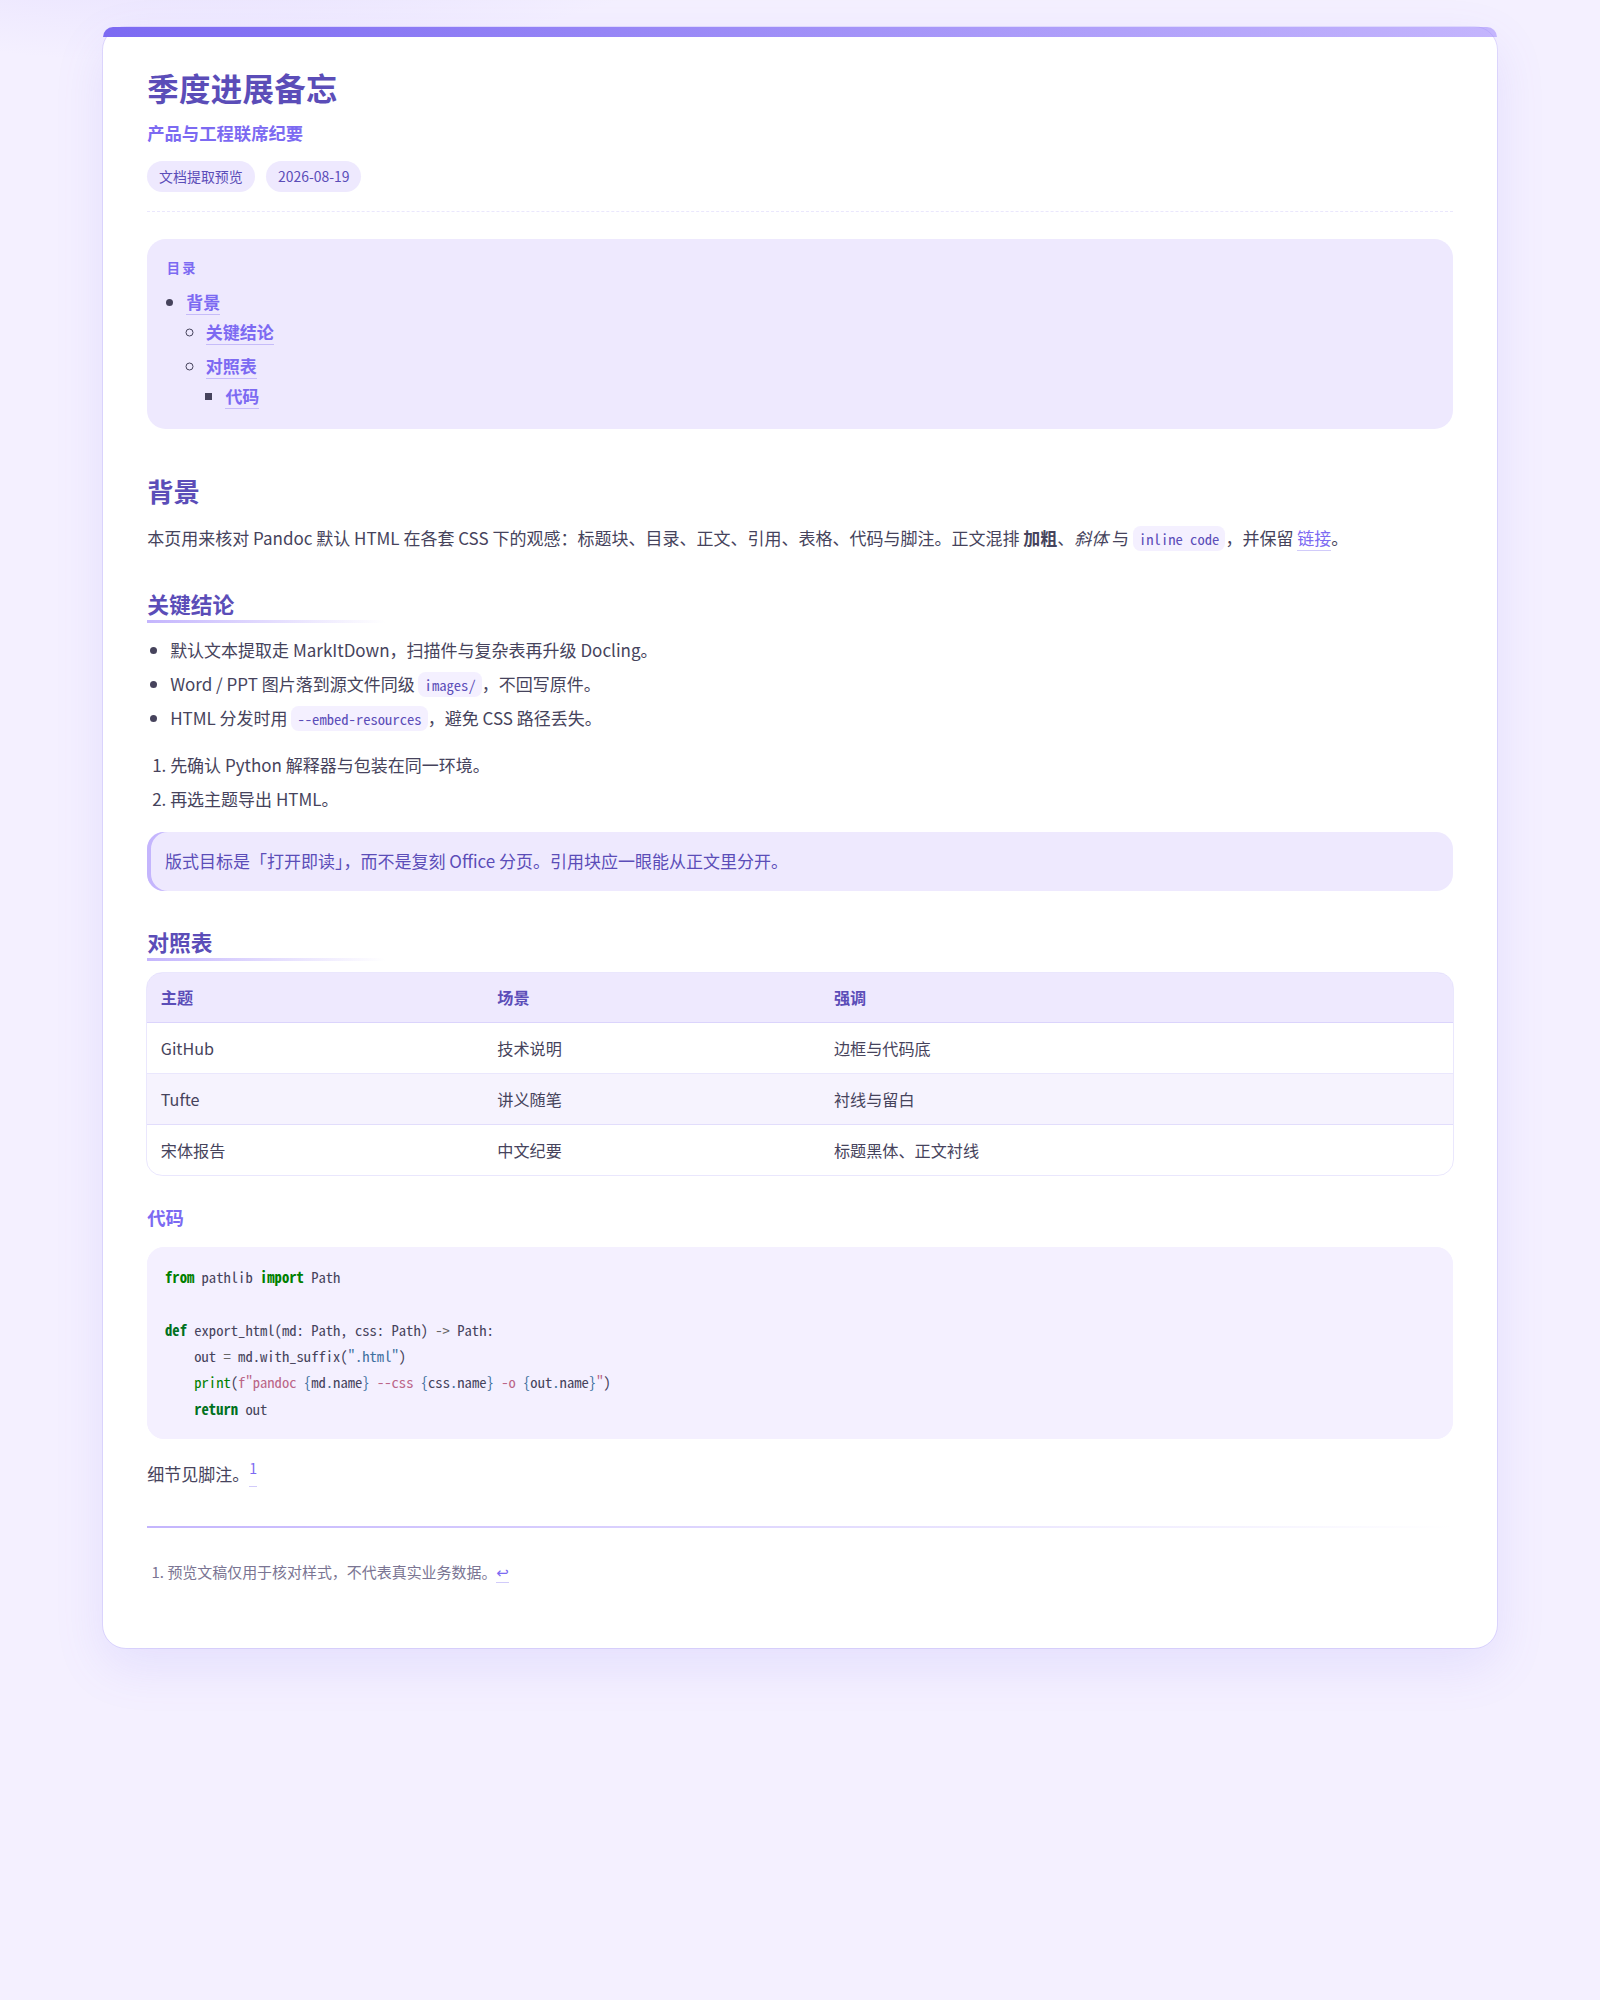
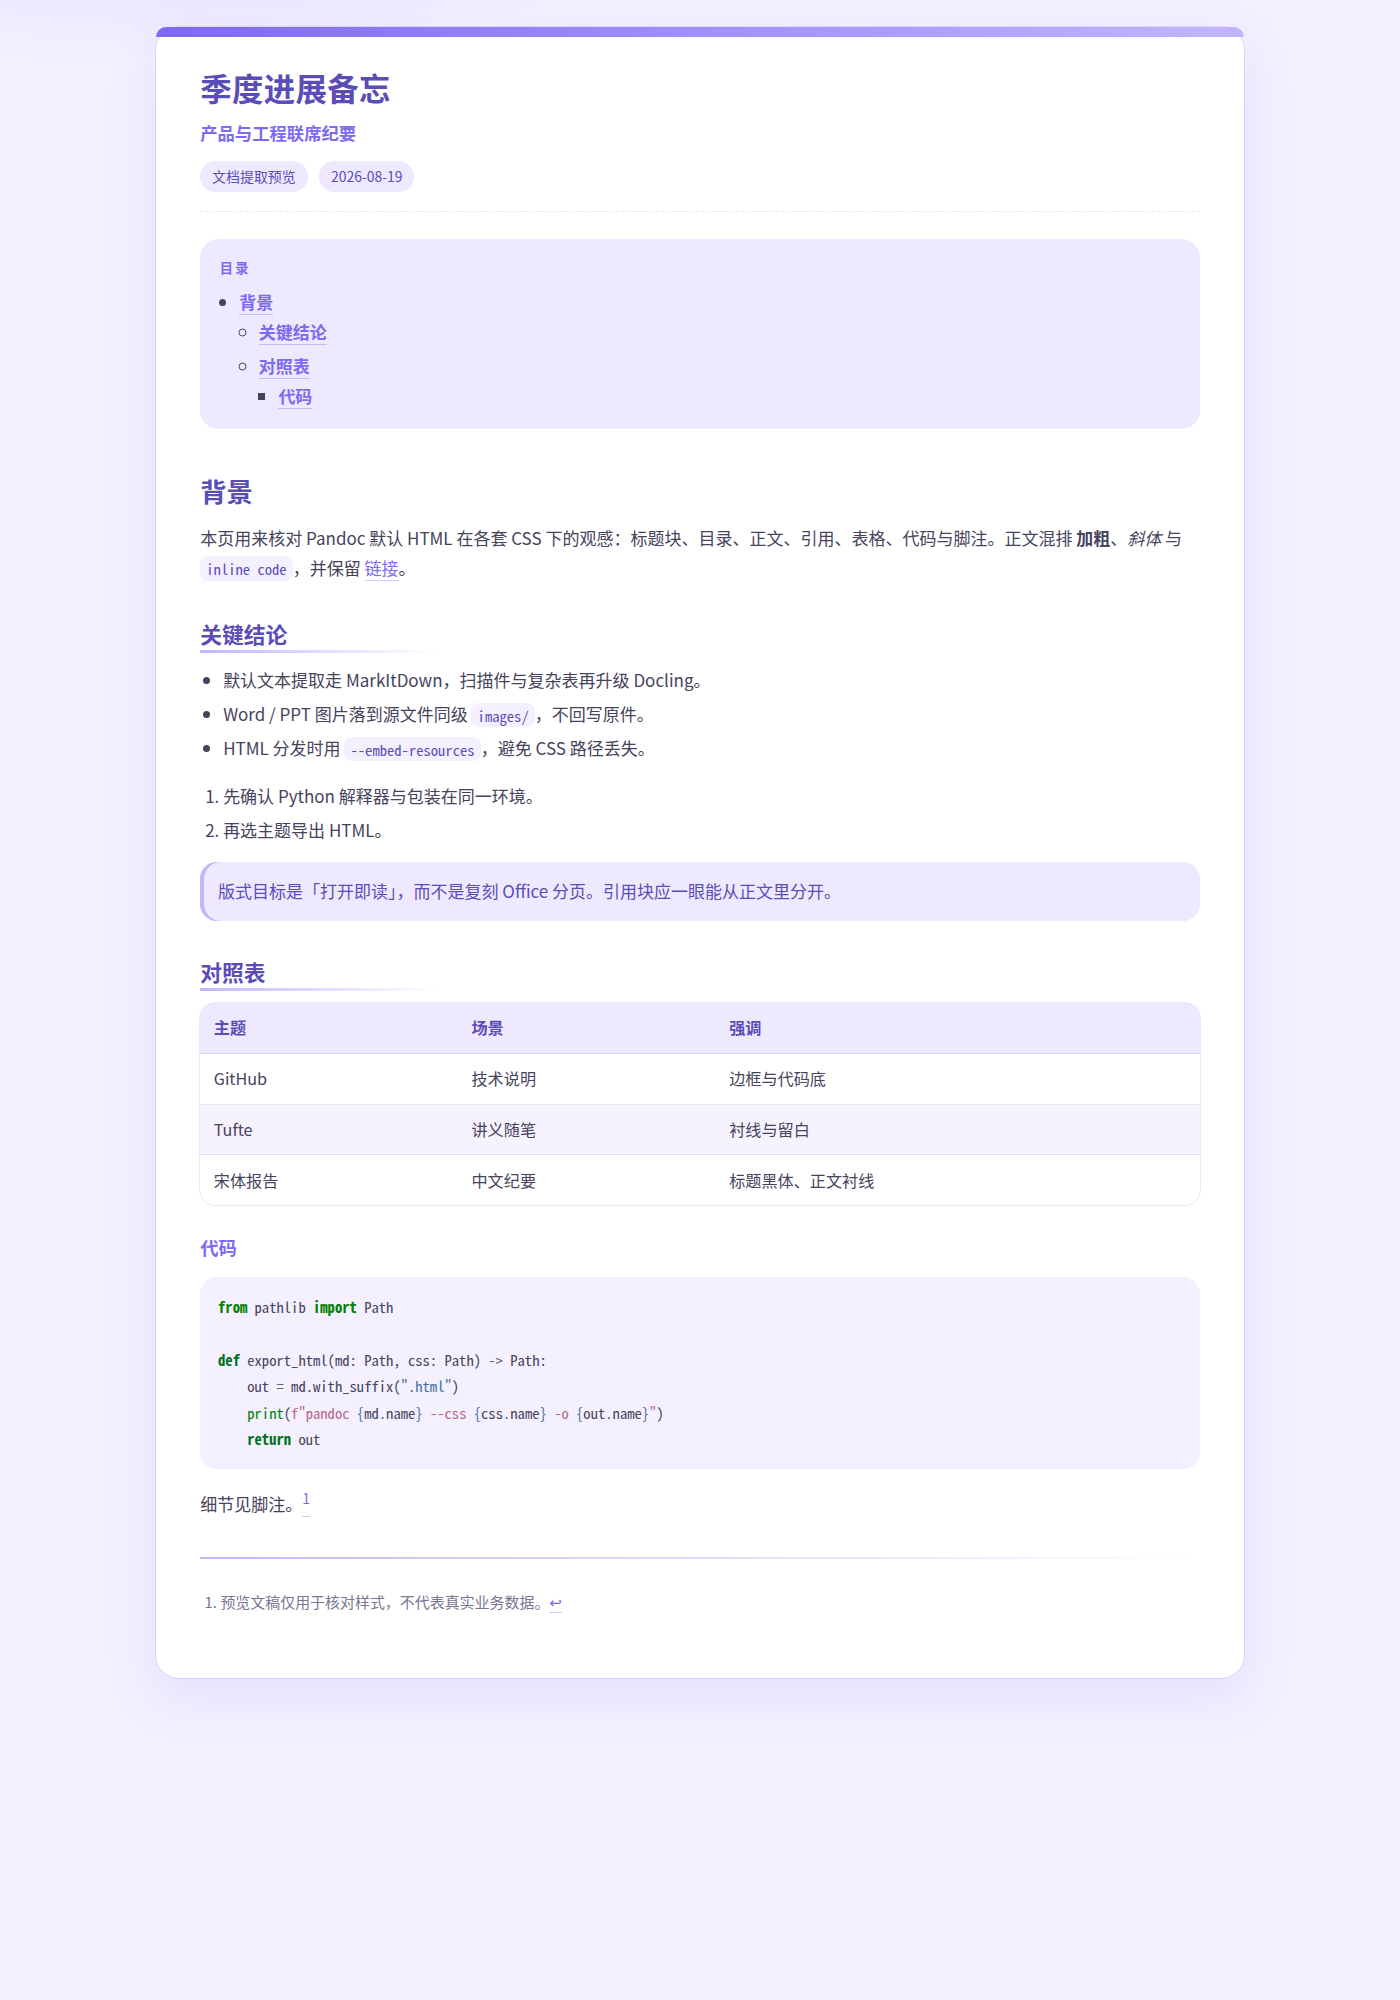
Set all Pandoc CSS reading columns to 64rem
Dial the fresh and classic theme measure back from 82rem to the requested 64rem, keeping the viewport cap.

diff --git a/skills/document-extract/pandoc-css/preview/fresh-lilac.html b/skills/document-extract/pandoc-css/preview/fresh-lilac.html
@@ -100,7 +100,7 @@ code span.wa { color: #60a0b0; font-weight: bold; font-style: italic; }
 --code: #f4f0ff;
 --shadow: 0 18px 50px rgba(124, 106, 242, 0.13);
 --ring: rgba(124, 106, 242, 0.16);
---measure: 82rem;
+--measure: 64rem;
 --radius: 1.35rem;
 --sans: "Noto Sans SC", "Noto Sans CJK SC", "PingFang SC", "Microsoft YaHei",
 ui-sans-serif, system-ui, sans-serif;

diff --git a/skills/document-extract/pandoc-css/preview/fresh-mint.html b/skills/document-extract/pandoc-css/preview/fresh-mint.html
@@ -100,7 +100,7 @@ code span.wa { color: #60a0b0; font-weight: bold; font-style: italic; }
 --code: #eefaf5;
 --shadow: 0 18px 50px rgba(15, 159, 138, 0.12);
 --ring: rgba(15, 159, 138, 0.14);
---measure: 82rem;
+--measure: 64rem;
 --radius: 1.35rem;
 --sans: "Noto Sans SC", "Noto Sans CJK SC", "PingFang SC", "Microsoft YaHei",
 ui-sans-serif, system-ui, sans-serif;

diff --git a/skills/document-extract/pandoc-css/preview/fresh-peach.html b/skills/document-extract/pandoc-css/preview/fresh-peach.html
@@ -100,7 +100,7 @@ code span.wa { color: #60a0b0; font-weight: bold; font-style: italic; }
 --code: #fff4f0;
 --shadow: 0 18px 50px rgba(232, 106, 88, 0.12);
 --ring: rgba(232, 106, 88, 0.16);
---measure: 82rem;
+--measure: 64rem;
 --radius: 1.35rem;
 --sans: "Noto Sans SC", "Noto Sans CJK SC", "PingFang SC", "Microsoft YaHei",
 ui-sans-serif, system-ui, sans-serif;

diff --git a/skills/document-extract/pandoc-css/preview/fresh-latte.html b/skills/document-extract/pandoc-css/preview/fresh-latte.html
@@ -100,7 +100,7 @@ code span.wa { color: #60a0b0; font-weight: bold; font-style: italic; }
 --code: #e6e9ef;
 --shadow: 0 18px 50px rgba(30, 102, 245, 0.10);
 --ring: rgba(76, 79, 105, 0.12);
---measure: 82rem;
+--measure: 64rem;
 --radius: 1.35rem;
 --sans: "Noto Sans SC", "Noto Sans CJK SC", "PingFang SC", "Microsoft YaHei",
 ui-sans-serif, system-ui, sans-serif;

diff --git a/skills/document-extract/pandoc-css/preview/fresh-sky.html b/skills/document-extract/pandoc-css/preview/fresh-sky.html
@@ -100,7 +100,7 @@ code span.wa { color: #60a0b0; font-weight: bold; font-style: italic; }
 --code: #eef7ff;
 --shadow: 0 18px 50px rgba(2, 132, 199, 0.12);
 --ring: rgba(2, 132, 199, 0.14);
---measure: 82rem;
+--measure: 64rem;
 --radius: 1.35rem;
 --sans: "Noto Sans SC", "Noto Sans CJK SC", "PingFang SC", "Microsoft YaHei",
 ui-sans-serif, system-ui, sans-serif;

diff --git a/skills/document-extract/pandoc-css/classic/songti-report.css b/skills/document-extract/pandoc-css/classic/songti-report.css
@@ -14,7 +14,7 @@
   --cinnabar: #b23a2f;
   --rule: #d9d0c3;
   --wash: #efe8dc;
-  --measure: 68em;
+  --measure: 64rem;
   --serif: "Source Han Serif SC", "Noto Serif SC", "Noto Serif CJK SC",
     "Songti SC", "SimSun", "STSong", "Times New Roman", serif;
   --sans: "Source Han Sans SC", "Noto Sans SC", "Noto Sans CJK SC",

diff --git a/skills/document-extract/pandoc-css/classic/nord-night.css b/skills/document-extract/pandoc-css/classic/nord-night.css
@@ -16,7 +16,7 @@
   --aurora: #a3be8c;
   --warn: #ebcb8b;
   --border: #4c566a;
-  --measure: 76rem;
+  --measure: 64rem;
   --sans: "Iosevka Aile", "IBM Plex Sans", "Noto Sans SC", "Noto Sans CJK SC",
     "Segoe UI", sans-serif;
   --mono: "JetBrains Mono", "Iosevka", "Fira Code", ui-monospace, Menlo, Consolas, monospace;

diff --git a/skills/document-extract/pandoc-css/classic/swiss-plain.css b/skills/document-extract/pandoc-css/classic/swiss-plain.css
@@ -13,7 +13,7 @@
   --accent: #e30613;
   --bar: #111111;
   --wash: #f4f4f4;
-  --measure: 72rem;
+  --measure: 64rem;
   --sans: Helvetica, "Helvetica Neue", Arial, "Noto Sans SC", "Noto Sans CJK SC",
     "PingFang SC", "Microsoft YaHei", sans-serif;
   --mono: "IBM Plex Mono", "SF Mono", Menlo, Consolas, monospace;

diff --git a/skills/document-extract/pandoc-css/fresh-lilac.css b/skills/document-extract/pandoc-css/fresh-lilac.css
@@ -17,7 +17,7 @@
   --code: #f4f0ff;
   --shadow: 0 18px 50px rgba(124, 106, 242, 0.13);
   --ring: rgba(124, 106, 242, 0.16);
-  --measure: 82rem;
+  --measure: 64rem;
   --radius: 1.35rem;
   --sans: "Noto Sans SC", "Noto Sans CJK SC", "PingFang SC", "Microsoft YaHei",
     ui-sans-serif, system-ui, sans-serif;

diff --git a/skills/document-extract/pandoc-css/fresh-mint.css b/skills/document-extract/pandoc-css/fresh-mint.css
@@ -17,7 +17,7 @@
   --code: #eefaf5;
   --shadow: 0 18px 50px rgba(15, 159, 138, 0.12);
   --ring: rgba(15, 159, 138, 0.14);
-  --measure: 82rem;
+  --measure: 64rem;
   --radius: 1.35rem;
   --sans: "Noto Sans SC", "Noto Sans CJK SC", "PingFang SC", "Microsoft YaHei",
     ui-sans-serif, system-ui, sans-serif;

diff --git a/skills/document-extract/pandoc-css/fresh-peach.css b/skills/document-extract/pandoc-css/fresh-peach.css
@@ -17,7 +17,7 @@
   --code: #fff4f0;
   --shadow: 0 18px 50px rgba(232, 106, 88, 0.12);
   --ring: rgba(232, 106, 88, 0.16);
-  --measure: 82rem;
+  --measure: 64rem;
   --radius: 1.35rem;
   --sans: "Noto Sans SC", "Noto Sans CJK SC", "PingFang SC", "Microsoft YaHei",
     ui-sans-serif, system-ui, sans-serif;

diff --git a/skills/document-extract/pandoc-css/fresh-latte.css b/skills/document-extract/pandoc-css/fresh-latte.css
@@ -17,7 +17,7 @@
   --code: #e6e9ef;
   --shadow: 0 18px 50px rgba(30, 102, 245, 0.10);
   --ring: rgba(76, 79, 105, 0.12);
-  --measure: 82rem;
+  --measure: 64rem;
   --radius: 1.35rem;
   --sans: "Noto Sans SC", "Noto Sans CJK SC", "PingFang SC", "Microsoft YaHei",
     ui-sans-serif, system-ui, sans-serif;
